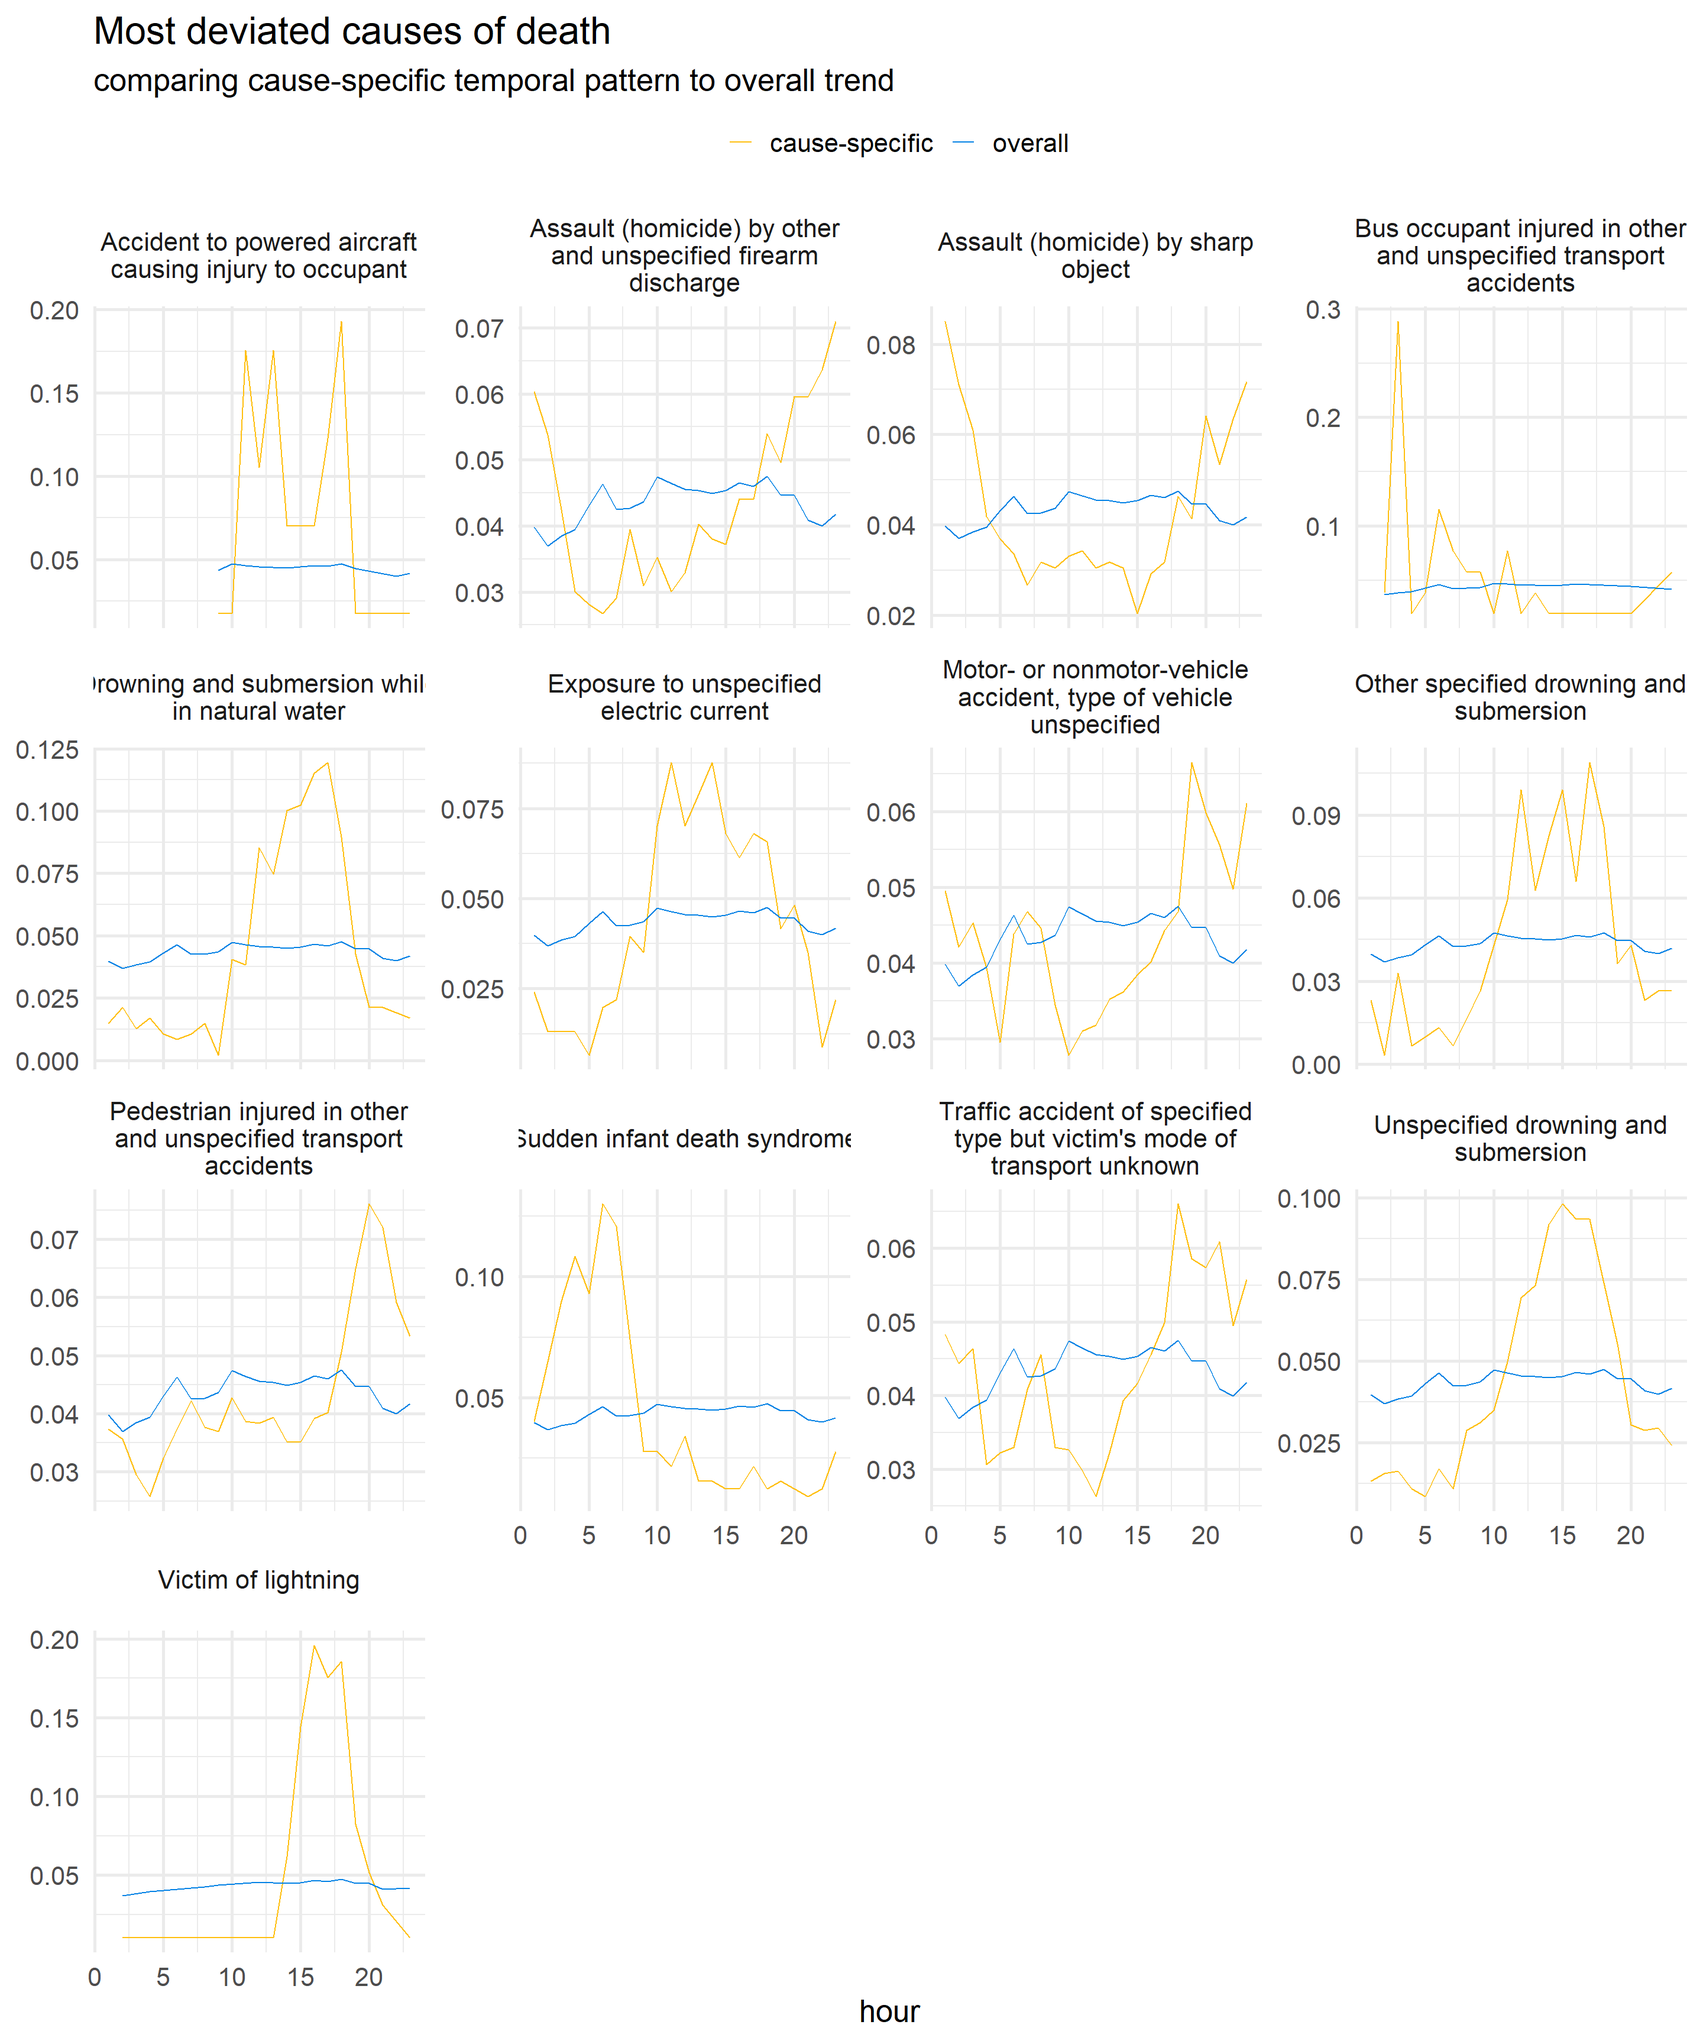
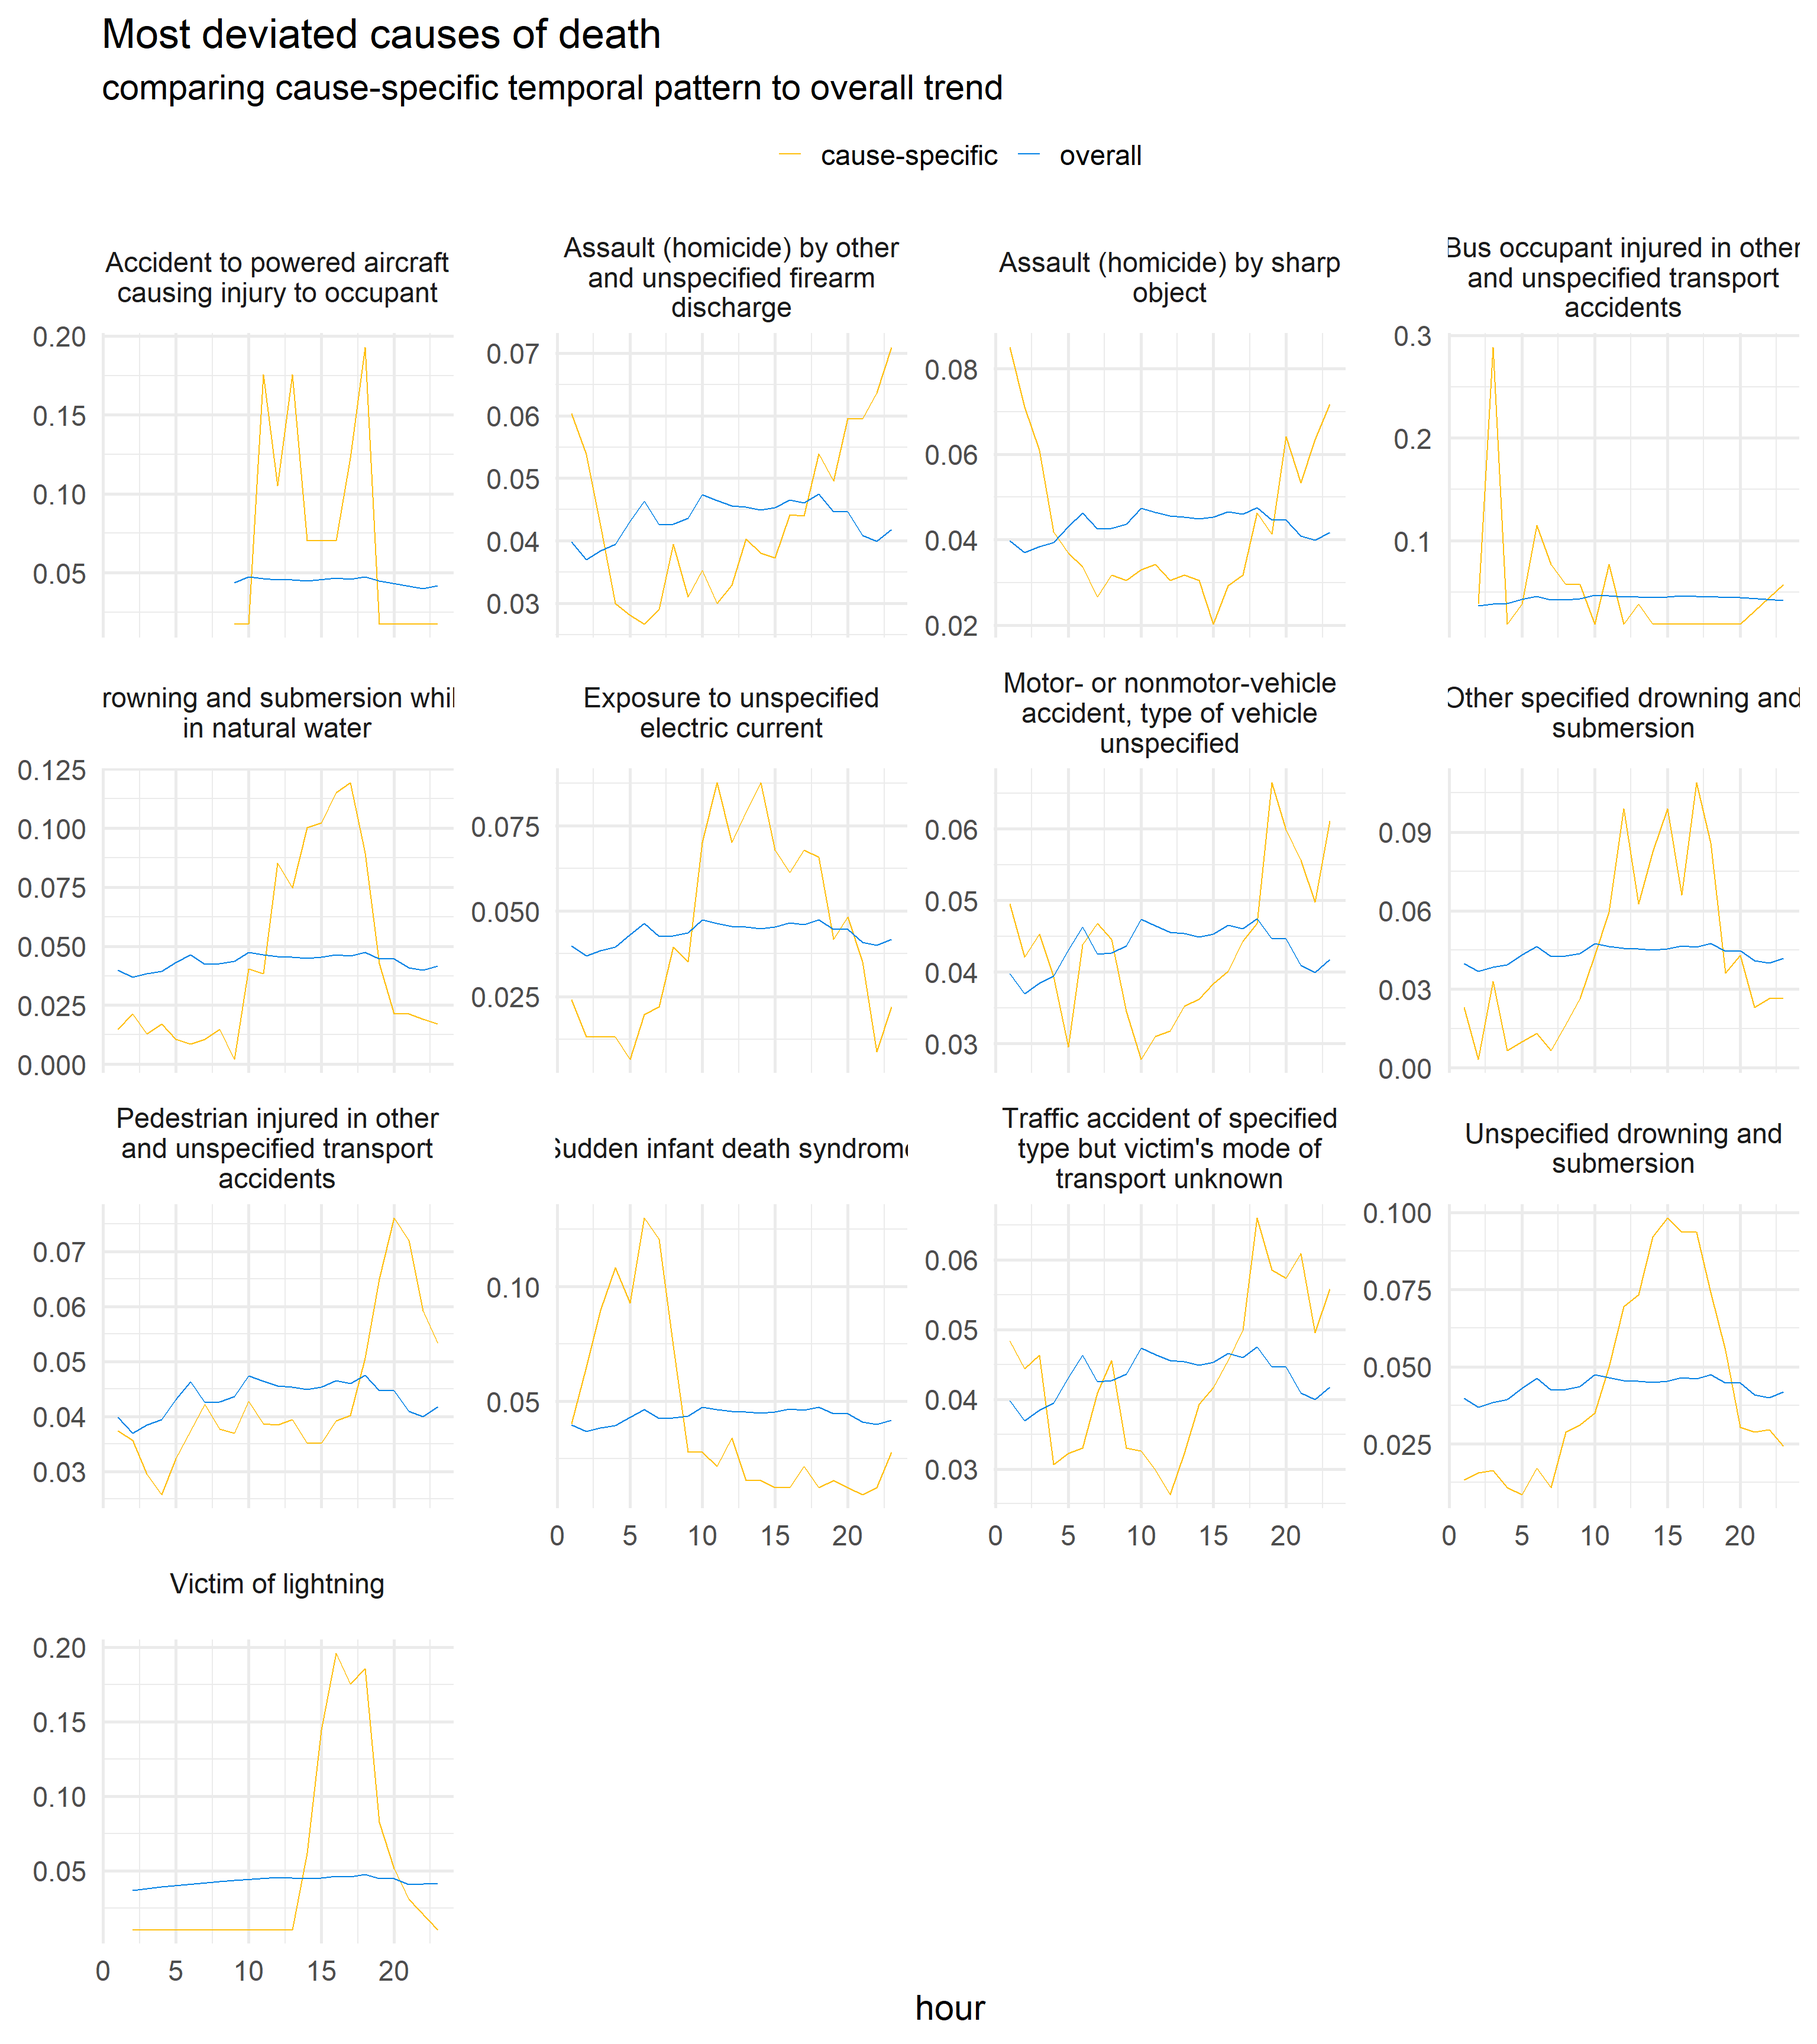
typos

diff --git a/public/post/python-tidy-data/index.html b/public/post/python-tidy-data/index.html
@@ -822,7 +822,7 @@ codes
 #&gt;  9 A08   &quot;Viral and other specified\nintestinal infections&quot;                   
 #&gt; 10 A09   &quot;Diarrhea and gastroenteritis\nof infectious origin&quot;                 
 #&gt; # ... with 1,841 more rows</code></pre>
-<p>Thanks to the <a href="https://rstudio.github.io/reticulate/"><code>reticulate</code></a>, we can mix R and Python code seamlessly. Here is a line plot made with <code>seaborn</code> demonstrating total deaths per hour:</p>
+<p>Thanks to the <a href="https://rstudio.github.io/reticulate/"><code>reticulate</code></a> package, we can mix R and Python code seamlessly. Here is a line plot made with <code>seaborn</code> demonstrating total deaths per hour:</p>
 <pre class="python"><code># Python
 deaths = r.deaths
 deaths_per_hour = deaths[&quot;hod&quot;].value_counts()
@@ -930,7 +930,7 @@ dist %&gt;%
 #&gt;  9 &quot;Contact with hornets, wasps,\nand bees&quot;                           86 0.00118
 #&gt; 10 &quot;Exposure to smoke, fire, and\nflames, undetermined intent&quot;        51 0.00110
 #&gt; # ... with 437 more rows</code></pre>
-<p>Here we see causes of death with highest <code>dist</code> are mainly accidents and rare diseases. However, there is a negative correlation between the frequency of a cause and its deviation, as shown in the following plot.</p>
+<p>Here we see causes of death with highest <code>dist</code> are mainly accidents and rare diseases. However, there is a negative correlation between the frequency of a cause and its deviation, as shown in the following plot, so that the result based solely on the <code>dist</code> column would be biased in favour of rare causes.</p>
 <pre class="r"><code>dist %&gt;% 
   ggplot(aes(n, dist)) + 
   geom_jitter() + 
@@ -943,7 +943,7 @@ dist %&gt;%
        y = NULL,
        x = &quot;total death&quot;)</code></pre>
 <p><img src="/post/2020-05-12-tidy-data-with-python/index_files/figure-html/unnamed-chunk-23-1.png" width="960" /></p>
-<p>Thus, our final solution is to build a model with <code>n</code> as predictor, andn <code>dist</code> as response. And cause with highest residual are assumed to have the most deviation. Since the linear trend fits the data quite well, I’m simply going to use linear regression (Hadley use robust linear model in the paper).</p>
+<p>Thus, our final solution is to build a model with <code>n</code> as predictor, and <code>dist</code> as response. The cause with highest residual are assumed to have the most deviation. Since the linear trend fits the data quite well, I opt for linear regression (Hadley used robust linear model in the paper).</p>
 <pre class="r"><code>library(broom)
 lm_fit &lt;- lm(log(dist) ~ log(n), data = dist)
 tidy(lm_fit)
@@ -952,7 +952,7 @@ tidy(lm_fit)
 #&gt;   &lt;chr&gt;          &lt;dbl&gt;     &lt;dbl&gt;     &lt;dbl&gt;     &lt;dbl&gt;
 #&gt; 1 (Intercept)   -3.74     0.110      -34.0 8.34e-126
 #&gt; 2 log(n)        -0.869    0.0186     -46.8 7.55e-174</code></pre>
-<p>Let’s plot those residuals:</p>
+<p>Let’s plot these residuals against the predictor <code>log(n)</code>:</p>
 <pre class="r"><code>augment(lm_fit) %&gt;% 
   ggplot(aes(log.n., .resid)) + 
   geom_hline(yintercept = 0, color = &quot;red&quot;) + 
@@ -1003,9 +1003,9 @@ unusual
   facet_wrap(~ cause, scales = &quot;free_y&quot;) + 
   labs(x = &quot;hour&quot;, y = NULL, title = &quot;Most deviated causes of death&quot;, 
        subtitle = &quot;comparing cause-specific temporal pattern to overall trend&quot;) + 
-  theme_minimal(base_size = 20) +
+  theme_minimal(base_size = 22) +
   theme(legend.position = &quot;top&quot;) </code></pre>
-<p><img src="/post/2020-05-12-tidy-data-with-python/index_files/figure-html/unnamed-chunk-27-1.png" width="1440" /></p>
+<p><img src="/post/2020-05-12-tidy-data-with-python/index_files/figure-html/unnamed-chunk-27-1.png" width="1536" /></p>
 </div>
 <div id="references" class="section level1 unnumbered">
 <h1>References</h1>

diff --git a/content/post/2020-05-12-tidy-data-with-python/index.html b/content/post/2020-05-12-tidy-data-with-python/index.html
@@ -320,7 +320,7 @@ codes
 #&gt;  9 A08   &quot;Viral and other specified\nintestinal infections&quot;                   
 #&gt; 10 A09   &quot;Diarrhea and gastroenteritis\nof infectious origin&quot;                 
 #&gt; # ... with 1,841 more rows</code></pre>
-<p>Thanks to the <a href="https://rstudio.github.io/reticulate/"><code>reticulate</code></a>, we can mix R and Python code seamlessly. Here is a line plot made with <code>seaborn</code> demonstrating total deaths per hour:</p>
+<p>Thanks to the <a href="https://rstudio.github.io/reticulate/"><code>reticulate</code></a> package, we can mix R and Python code seamlessly. Here is a line plot made with <code>seaborn</code> demonstrating total deaths per hour:</p>
 <pre class="python"><code># Python
 deaths = r.deaths
 deaths_per_hour = deaths[&quot;hod&quot;].value_counts()
@@ -428,7 +428,7 @@ dist %&gt;%
 #&gt;  9 &quot;Contact with hornets, wasps,\nand bees&quot;                           86 0.00118
 #&gt; 10 &quot;Exposure to smoke, fire, and\nflames, undetermined intent&quot;        51 0.00110
 #&gt; # ... with 437 more rows</code></pre>
-<p>Here we see causes of death with highest <code>dist</code> are mainly accidents and rare diseases. However, there is a negative correlation between the frequency of a cause and its deviation, as shown in the following plot.</p>
+<p>Here we see causes of death with highest <code>dist</code> are mainly accidents and rare diseases. However, there is a negative correlation between the frequency of a cause and its deviation, as shown in the following plot, so that the result based solely on the <code>dist</code> column would be biased in favour of rare causes.</p>
 <pre class="r"><code>dist %&gt;% 
   ggplot(aes(n, dist)) + 
   geom_jitter() + 
@@ -441,7 +441,7 @@ dist %&gt;%
        y = NULL,
        x = &quot;total death&quot;)</code></pre>
 <p><img src="/post/2020-05-12-tidy-data-with-python/index_files/figure-html/unnamed-chunk-23-1.png" width="960" /></p>
-<p>Thus, our final solution is to build a model with <code>n</code> as predictor, andn <code>dist</code> as response. And cause with highest residual are assumed to have the most deviation. Since the linear trend fits the data quite well, I’m simply going to use linear regression (Hadley use robust linear model in the paper).</p>
+<p>Thus, our final solution is to build a model with <code>n</code> as predictor, and <code>dist</code> as response. The cause with highest residual are assumed to have the most deviation. Since the linear trend fits the data quite well, I opt for linear regression (Hadley used robust linear model in the paper).</p>
 <pre class="r"><code>library(broom)
 lm_fit &lt;- lm(log(dist) ~ log(n), data = dist)
 tidy(lm_fit)
@@ -450,7 +450,7 @@ tidy(lm_fit)
 #&gt;   &lt;chr&gt;          &lt;dbl&gt;     &lt;dbl&gt;     &lt;dbl&gt;     &lt;dbl&gt;
 #&gt; 1 (Intercept)   -3.74     0.110      -34.0 8.34e-126
 #&gt; 2 log(n)        -0.869    0.0186     -46.8 7.55e-174</code></pre>
-<p>Let’s plot those residuals:</p>
+<p>Let’s plot these residuals against the predictor <code>log(n)</code>:</p>
 <pre class="r"><code>augment(lm_fit) %&gt;% 
   ggplot(aes(log.n., .resid)) + 
   geom_hline(yintercept = 0, color = &quot;red&quot;) + 
@@ -501,9 +501,9 @@ unusual
   facet_wrap(~ cause, scales = &quot;free_y&quot;) + 
   labs(x = &quot;hour&quot;, y = NULL, title = &quot;Most deviated causes of death&quot;, 
        subtitle = &quot;comparing cause-specific temporal pattern to overall trend&quot;) + 
-  theme_minimal(base_size = 20) +
+  theme_minimal(base_size = 22) +
   theme(legend.position = &quot;top&quot;) </code></pre>
-<p><img src="/post/2020-05-12-tidy-data-with-python/index_files/figure-html/unnamed-chunk-27-1.png" width="1440" /></p>
+<p><img src="/post/2020-05-12-tidy-data-with-python/index_files/figure-html/unnamed-chunk-27-1.png" width="1536" /></p>
 </div>
 <div id="references" class="section level1 unnumbered">
 <h1>References</h1>
